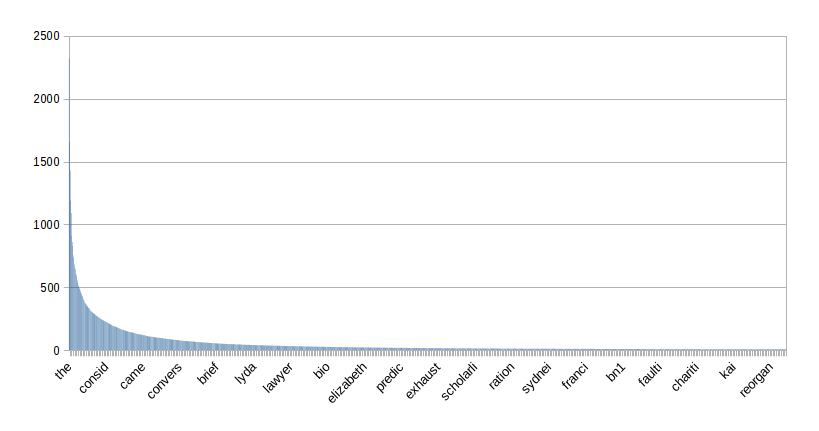
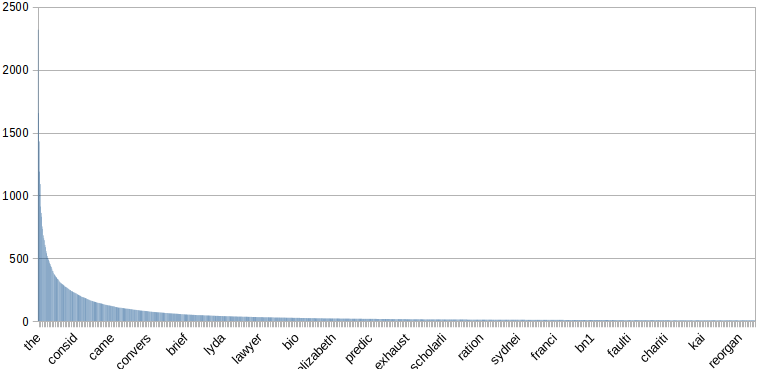
Add detailed introduction to Feature Selection and Zipf's Law

diff --git a/report/preprocessing.tex b/report/preprocessing.tex
@@ -1,7 +1,7 @@
 \section{Preprocessing}
 The bag of words model used by our classifiers is a good way to represent the data found in the given training documents. However this feature representation is prone to very high dimensions if not handled well due to the large number of possible combinations in words. 
 
-According to a recent survey performed by Google and Harvard, there are approximately 1,022,000 different words in the English language \cite{google2010words}. While we do not expect to find all possible words in the document corpus, a large number of them will be found along with their derivations in the form of spelling mistakes and grammatical variations (e.g.{\it they're} and {\it theyre}). Other non-English words such as html code, URLs and nonsensical data such as GPG keys will also be found within the documents.
+According to a recent survey performed by Google and Harvard, there are approximately 1,022,000 different words in the English language \cite{google2010words}. While we do not expect to find all possible words in the document corpus, a large number of them will be found along with their derivations in the form of spelling mistakes and grammatical variations (e.g.{\it they're} and {\it theyre}). Other non-English words such as html code, URLs and nonsensical data such as PGP keys will also be found within the documents.
 
 Most of these words will provide no benefit to the classifier and in most cases will even harm the classifier's performance. It is therefore of utmost importance that noise in the text is filtered out and the number of word combinations is reduced to the most representative, yet minimal subset of the available words. The following steps are taken to do this:
 \begin{itemize}
@@ -79,9 +79,29 @@ In terms of the Spam Filter implementation, using Porter Stemming on the given s
 \todo{Improvement?}
 
 \subsection{Feature selection}
-\todo{Is this really preprocessing?}
+Although we have substantially reduced the number of features through the use of various text processing techniques, we still have a substantial number of features for the classifier to train with. Interestingly, the frequency of occurrence for each word in the text can be grouped into 3 categories of very common, common and rare. 
 
-As the number of features generated by the input data is even very high after the previous preprocessing steps, we are going to minimise its number by trimming features which are (significantly) relevant for the classification quality.
+Very frequent elements in the text and commonly referred to as stopwords in linguistic morphology. These are words which are very frequently found in English texts (Some good examples are {\it the}, {\it and}, {\it it} etc..) and usually do not provide any particular indication about the category of the document's class. On the other hand, very rare elements in a text are usually attributed to spelling mistakes and other artefacts such as IDs (PGP keys being the most common in emails). In between these two categories we have words not too commonly found, but not rare enough to constitute as errors either.
+
+A corpus of documents that shows this pattern is said to obey {\it Zipf's law} \cite{zipf1949} and thus follow what is called a {\it Zipfian Distribution}. It so happens that most English documents follow this law and so does our corpus. This is mainly due to a phenomenon pointed out by Zipf in his paper called the {\it Principle of Least Effort}.
+
+The frequency of occurrence of each term in the given training set is shown in Figure \ref{zipfian}  mapped in descending order. Some words on the graph are specified on the x-axis to provide an example at each portion of the graph (Note that these are stems due to our previous Stemming technique). It should be immediately noted how common rare words are by the long "tail" shown in the graph and one should also notice how frequent certain words such as {\it the} are.
+
+What we really want to keep is the words which are in between these two categories as these are the most representative of the text. This area can be considered somewhat of a "{\it Goldilocks Zone}" as its just about right for giving us the right information. To extract this area and remove the excess, we use a technique called feature selection to trim out all features from the index with a document frequency less than
+\begin{math}\alpha \times no. documents \end{math}
+and more than 
+\begin{math}\beta \times no. documents \end{math},
+where \begin{math}\alpha \end{math} and \begin{math}\beta \end{math} are values in the range [0,1].
+
+\begin{figure}[h!]
+	\label{zipfian}
+    \centering
+    \includegraphics[width=0.5\textwidth]{zipfian.png}
+    \caption{Zipfian Distribution exhibited in the Training Corpus}
+    \label{zipfian}
+\end{figure}
+
+Unfortunately, choosing a ideal \begin{math}\alpha \end{math} and \begin{math} \beta \end{math} is a somewhat tedious process of trial and error. \todo{Uwe you could start writing about feature selection here}
 
 \todo{\dots}
 
